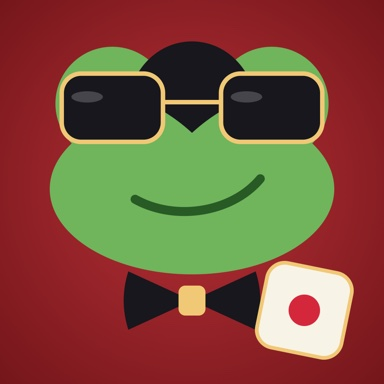
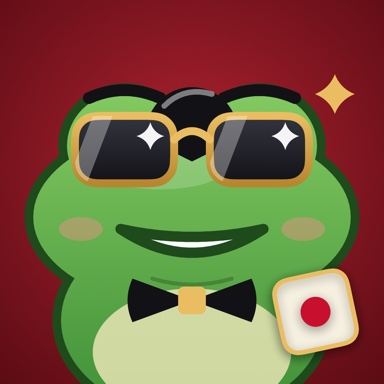
膨風盅 1.3.0 已上架：新圖示、新截圖、膨風水雞重畫，版本紀錄改為目前版本
- 版本紀錄 1.3.0 標為目前版本（2026-11-26），首頁標示 1.3 版
- App 圖示、favicon 與六張畫面換成 1.3 新造型
- 吉祥物 SVG 依 App 的新膨風水雞重畫（油頭、金框墨鏡、領結、下巴聲囊；被抓包會垮臉、墨鏡歪掉）
- 同桌卡片、吉祥物介紹與聲控問答加入表情、膨風水雞王與聲控訓練

diff --git a/bluffrog/index.html b/bluffrog/index.html
@@ -220,6 +220,12 @@ h1 em,.h2 em{font-style:normal;background:linear-gradient(100deg,#FFE3A6 0%,var(
 .frog__stage.busted #sac{transition:transform .9s cubic-bezier(.3,1.8,.4,1);transform:scale(.18)}
 .frog__stage.busted #frogBody{transform:scale(.97) translateY(4px)}
 .frog__stage.busted .sweat{opacity:1;transform:translateY(0)}
+#shades{transform-box:fill-box;transform-origin:50% 50%;transition:transform .6s var(--ease-spring)}
+.frog__stage .m-down,.frog__stage .brows{opacity:0;transition:opacity .3s}
+.frog__stage .m-up{transition:opacity .3s}
+.frog__stage.busted .m-up{opacity:0}
+.frog__stage.busted .m-down,.frog__stage.busted .brows{opacity:1}
+.frog__stage.busted #shades{transform:translateY(13px) rotate(-9deg)}
 .sweat{opacity:0;transform:translateY(-6px);transition:opacity .3s,transform .4s}
 .bid{margin-top:36px;padding:24px;border-radius:var(--r-m);background:var(--card);border:1px solid var(--line)}
 .bid__row{display:flex;align-items:baseline;justify-content:space-between;gap:16px}
@@ -469,7 +475,7 @@ footer a{text-decoration:none}footer a:hover{color:var(--cream)}
           <span class="tag">搖相呼應</span>
           <h3>全桌一起開盅</h3>
           <p>2 到 8 支手機圍成一桌，任何人開盅，全桌同時開。</p>
-          <ul><li>輸入桌號或掃 QR code 就加入，不用帳號</li><li>沒有 Wi-Fi 也能在 1 秒左右連上</li><li>按住麥克風喊「四個四」叫骰、喊「開」開盅</li><li>骰數、誰先喊、開新局，桌上誰都能按</li><li>自動統計全桌點數、判定輸贏</li></ul>
+          <ul><li>輸入桌號或掃 QR code 就加入，不用帳號</li><li>沒有 Wi-Fi 也能在 1 秒左右連上</li><li>按住麥克風喊「四個四」叫骰、喊「開」開盅</li><li>點桌號旁的笑臉，丟表情給全桌</li><li>自動判輸贏，再公布「膨風水雞王」</li></ul>
           <div class="shot-wrap"><img class="shot" src="img/06-result.jpg" alt="搖相呼應：開盅後顯示「你贏了」，以及全桌各點數的統計" width="552" height="1200" loading="lazy"></div>
         </article>
       </div>
@@ -480,35 +486,57 @@ footer a{text-decoration:none}footer a:hover{color:var(--cream)}
   <section class="sec" id="frog" aria-labelledby="frog-h" style="padding-top:0">
     <div class="wrap frog">
       <div class="frog__stage rv" id="frogStage">
-        <svg viewBox="0 0 300 300" role="img" aria-label="吉祥物膨風水雞：戴著墨鏡、打著領結的青蛙，喉嚨會隨叫骰鼓起來">
-          <ellipse cx="150" cy="282" rx="96" ry="12" fill="rgba(0,0,0,.45)"/>
+        <svg viewBox="0 0 300 300" role="img" aria-label="吉祥物膨風水雞：梳油頭、戴金框墨鏡、打著領結的青蛙，下巴的聲囊會隨叫骰鼓起來">
+          <defs>
+            <linearGradient id="fSkin" x1="0" y1="30" x2="0" y2="285" gradientUnits="userSpaceOnUse"><stop offset="0" stop-color="#86CC63"/><stop offset="1" stop-color="#3F8F37"/></linearGradient>
+            <radialGradient id="fSac" cx="141" cy="175" r="78" gradientUnits="userSpaceOnUse"><stop offset="0" stop-color="#FFF4D2"/><stop offset="1" stop-color="#E2B65A"/></radialGradient>
+            <linearGradient id="fLens" x1="0" y1="0" x2="0" y2="1"><stop offset="0" stop-color="#34343E"/><stop offset="1" stop-color="#121216"/></linearGradient>
+            <linearGradient id="fRim" x1="0" y1="0" x2="0" y2="1"><stop offset="0" stop-color="#EBBD62"/><stop offset="1" stop-color="#B8862E"/></linearGradient>
+            <clipPath id="fShape"><ellipse cx="150" cy="135" rx="120" ry="69"/><ellipse cx="99" cy="81" rx="43.5" ry="40.5"/><ellipse cx="201" cy="81" rx="43.5" ry="40.5"/><ellipse cx="150" cy="213" rx="99" ry="72"/></clipPath>
+            <clipPath id="fJaw"><path d="M0 157.5 Q150 172.5 300 157.5 L300 300 L0 300Z"/></clipPath>
+            <clipPath id="fLensL"><rect x="61.5" y="58.5" width="75" height="51" rx="16.5"/></clipPath>
+            <clipPath id="fLensR"><rect x="163.5" y="58.5" width="75" height="51" rx="16.5"/></clipPath>
+          </defs>
+          <ellipse cx="150" cy="289" rx="92" ry="10" fill="rgba(0,0,0,.45)"/>
           <g id="frogBody">
-            <circle cx="100" cy="92" r="38" fill="var(--frog)"/>
-            <circle cx="200" cy="92" r="38" fill="var(--frog)"/>
-            <path d="M150 74 C112 74 98 84 98 84 L202 84 C202 84 188 74 150 74Z" fill="#141416"/>
-            <ellipse cx="150" cy="170" rx="122" ry="88" fill="var(--frog)"/>
-            <ellipse cx="150" cy="190" rx="100" ry="58" fill="#86CF6C" opacity=".45"/>
-            <!-- sunglasses -->
-            <rect x="62" y="96" width="76" height="52" rx="16" fill="#18181B" stroke="var(--gold)" stroke-width="6"/>
-            <rect x="162" y="96" width="76" height="52" rx="16" fill="#18181B" stroke="var(--gold)" stroke-width="6"/>
-            <path d="M138 112 H162" stroke="var(--gold)" stroke-width="6"/>
-            <rect x="74" y="106" width="26" height="9" rx="4.5" fill="rgba(255,255,255,.28)"/>
-            <rect x="174" y="106" width="26" height="9" rx="4.5" fill="rgba(255,255,255,.28)"/>
-            <path d="M104 186 Q150 214 196 182" stroke="var(--frog-2)" stroke-width="8" stroke-linecap="round" fill="none"/>
-            <g class="sweat"><path d="M252 112 C246 124 246 132 252 136 C258 132 258 124 252 112Z" fill="#9BD3FF"/></g>
-          </g>
-          <!-- vocal sac: the "puff" -->
-          <ellipse id="sac" cx="150" cy="226" rx="66" ry="44" fill="#E9F3C8" stroke="#C9DF9C" stroke-width="3"/>
-          <g>
-            <path d="M118 248 L144 260 L118 272Z M182 248 L156 260 L182 272Z" fill="#141416"/>
-            <rect x="142" y="252" width="16" height="16" rx="4" fill="var(--gold)"/>
+            <!-- outline, then fill on top so only the outer edge shows -->
+            <g fill="#1F4A1C" stroke="#1F4A1C" stroke-width="13.2"><ellipse cx="150" cy="135" rx="120" ry="69"/><ellipse cx="99" cy="81" rx="43.5" ry="40.5"/><ellipse cx="201" cy="81" rx="43.5" ry="40.5"/><ellipse cx="150" cy="213" rx="99" ry="72"/></g>
+            <rect width="300" height="300" fill="url(#fSkin)" clip-path="url(#fShape)"/>
+            <ellipse cx="126" cy="99" rx="48" ry="15" fill="rgba(255,255,255,.18)"/>
+            <ellipse cx="150" cy="237" rx="75" ry="48" fill="#E8E4B4" opacity=".85" clip-path="url(#fShape)"/>
+            <!-- slicked hair -->
+            <path d="M114 75 C117 24 183 24 186 75 Q174 81 150 93 Q126 81 114 75Z" fill="#121216"/>
+            <path d="M129 51 Q144 36 165 42" fill="none" stroke="rgba(255,255,255,.45)" stroke-width="4.2" stroke-linecap="round"/>
+            <!-- bow tie -->
+            <path d="M150 198 L195 181.5 Q202.5 198 195 214.5Z M150 198 L105 181.5 Q97.5 198 105 214.5Z" fill="#121216"/>
+            <rect x="139.5" y="187.5" width="21" height="21" rx="4.5" fill="#EBBD62"/>
+            <!-- vocal sac: grows from under the chin -->
+            <g clip-path="url(#fJaw)"><g id="sac">
+              <ellipse cx="150" cy="193" rx="60" ry="42" fill="url(#fSac)" stroke="#A97A22" stroke-width="6.6"/>
+              <path d="M112 182 A33 33 0 0 1 130 163" fill="none" stroke="rgba(255,255,255,.85)" stroke-width="4.8" stroke-linecap="round"/>
+            </g></g>
+            <!-- mouth: smirk, deflated when busted -->
+            <g fill="none" stroke="#1F4A1C" stroke-width="7.8" stroke-linecap="round" stroke-linejoin="round">
+              <path class="m-up" d="M99 150 C126 168 180 163.5 210 142.5 L214.5 148.5"/>
+              <path class="m-down" d="M108 162 C132 147 168 147 192 160.5"/>
+            </g>
+            <!-- gold-rimmed shades -->
+            <g id="shades">
+              <rect x="61.5" y="58.5" width="75" height="51" rx="16.5" fill="url(#fLens)" stroke="url(#fRim)" stroke-width="6"/>
+              <rect x="163.5" y="58.5" width="75" height="51" rx="16.5" fill="url(#fLens)" stroke="url(#fRim)" stroke-width="6"/>
+              <path d="M75 58.5 H90 L70.5 109.5 H55.5Z" fill="rgba(255,255,255,.14)" clip-path="url(#fLensL)"/>
+              <path d="M177 58.5 H192 L172.5 109.5 H157.5Z" fill="rgba(255,255,255,.14)" clip-path="url(#fLensR)"/>
+              <path d="M136.5 76.35 Q150 63.6 163.5 76.35" fill="none" stroke="#EBBD62" stroke-width="6" stroke-linecap="round"/>
+            </g>
+            <path class="brows" d="M69 60 L126 45 M231 60 L174 45" fill="none" stroke="#121216" stroke-width="9" stroke-linecap="round"/>
+            <g class="sweat"><path d="M258 81 Q267 93 268.5 103.5 A10.5 10.5 0 0 1 247.5 103.5 Q249 93 258 81Z" fill="#7CCBFF" stroke="#2E7BB5" stroke-width="2.4"/></g>
           </g>
         </svg>
       </div>
       <div>
         <p class="eyebrow rv">吉祥物</p>
         <h2 class="h2 rv" id="frog-h" style="--i:1">叫得越大，<br>水雞<em>鼓得越大</em>。</h2>
-        <p class="lede rv" style="--i:2">膨風水雞是陪你吹牛的青蛙，大話骰和同桌都在。叫骰越喊越多，牠的喉嚨就越鼓；被人一把抓包，當場洩氣。</p>
+        <p class="lede rv" style="--i:2">膨風水雞是陪你吹牛的青蛙，大話骰和同桌都在。叫骰越喊越多，牠的下巴就越鼓；被人一把抓包，當場洩氣。同桌還能丟牠的表情給大家，每局結算公布手上沒幾顆卻喊最大的「膨風水雞王」。</p>
         <div class="bid rv" style="--i:3">
           <div class="bid__row"><label for="qty">拖動來叫骰</label><p class="bid__say" aria-live="polite"><span class="num" id="qtyOut">3</span> 個 6</p></div>
           <input type="range" id="qty" min="1" max="10" value="3" aria-describedby="bidStatus">
@@ -556,7 +584,7 @@ footer a{text-decoration:none}footer a:hover{color:var(--cream)}
       <figure><img src="img/03-revealed.jpg" alt="開盅後綠色氈面上的骰子，下方列出每個點數的數量與合計" width="552" height="1200" loading="lazy"><figcaption><b>開</b>點數自動算好</figcaption></figure>
       <figure><img src="img/04-liar.jpg" alt="大話骰對局畫面" width="552" height="1200" loading="lazy"><figcaption><b>大話骰</b>跟 AI 對吹</figcaption></figure>
       <figure><img src="img/05-table.jpg" alt="搖相呼應的同桌畫面：桌號、在場玩家，輪到你叫骰" width="552" height="1200" loading="lazy"><figcaption><b>搖相呼應</b>輸入桌號或掃碼加入</figcaption></figure>
-      <figure><img src="img/06-result.jpg" alt="同桌開盅結果：膨風水雞旁顯示你贏了，下方列出全桌點數" width="552" height="1200" loading="lazy"><figcaption><b>輸贏</b>一開盅就知道</figcaption></figure>
+      <figure><img src="img/06-result.jpg" alt="同桌開盅結果：膨風水雞旁顯示你贏了，下方公布本局膨風水雞王與全桌點數" width="552" height="1200" loading="lazy"><figcaption><b>輸贏</b>一開盅就知道</figcaption></figure>
     </div>
     <div class="reel-ctl"><button type="button" data-dir="-1" aria-label="上一張"><svg><use href="#left"/></svg></button><button type="button" data-dir="1" aria-label="下一張"><svg><use href="#right"/></svg></button></div>
   </section>
@@ -597,8 +625,8 @@ footer a{text-decoration:none}footer a:hover{color:var(--cream)}
       <p class="eyebrow rv">版本紀錄</p>
       <h2 class="h2 rv" id="ver-h" style="--i:1">每一版，<em>改了什麼</em>。</h2>
       <ol class="log" reversed>
-        <li class="rv">
-          <div><p class="ver">1.3.0</p><span class="soon">即將推出</span></div>
+        <li class="latest rv">
+          <div><p class="ver">1.3.0</p><time datetime="2026-11-26">2026 年 11 月 26 日</time><span class="now">目前版本</span></div>
           <div>
             <h3>膨風水雞大改版</h3>
             <ul>
@@ -608,11 +636,11 @@ footer a{text-decoration:none}footer a:hover{color:var(--cream)}
               <li>新增「聲控訓練」（設定 → 聲控）：念幾句，聲控就聽得懂你的口音</li>
               <li>按住麥克風一碰就開始聽，開頭也比較不會被吃掉</li>
             </ul>
-            <p class="note">表情與膨風水雞王需要大家都更新到 1.3.0。Apple 審核通過後，就能在 App Store 更新。</p>
+            <p class="note">表情與膨風水雞王需要大家都更新到 1.3.0。</p>
           </div>
         </li>
-        <li class="latest rv" style="--i:1">
-          <div><p class="ver">1.2.0</p><time datetime="2026-11-25">2026 年 11 月 25 日</time><span class="now">目前版本</span></div>
+        <li class="rv" style="--i:1">
+          <div><p class="ver">1.2.0</p><time datetime="2026-11-25">2026 年 11 月 25 日</time></div>
           <div>
             <h3>「搖相呼應」大更新</h3>
             <ul>
@@ -678,7 +706,7 @@ footer a{text-decoration:none}footer a:hover{color:var(--cream)}
         <a class="btn btn--gold" href="https://apps.apple.com/tw/app/%E8%86%A8%E9%A2%A8%E7%9B%85/id6835320625">在 App Store 免費下載<svg aria-hidden="true"><use href="#arr"/></svg></a>
         <a class="btn btn--ghost" href="#support">支援與隱私權</a>
       </div>
-      <small class="rv" style="--i:3">已在 App Store 上架・1.2 版・免費・4 歲以上・iOS 17 以上的 iPhone 與 iPad</small>
+      <small class="rv" style="--i:3">已在 App Store 上架・1.3 版・免費・4 歲以上・iOS 17 以上的 iPhone 與 iPad</small>
     </div>
   </section>
 
@@ -691,7 +719,7 @@ footer a{text-decoration:none}footer a:hover{color:var(--cream)}
         <details><summary>搖手機沒有反應？</summary><p>到 App 的「設定」把搖晃靈敏度調高，或直接按畫面下方的「搖」。大話骰叫骰階段不能重搖，這是規則。</p></details>
         <details><summary>同桌模式找不到桌子？</summary><p>先確認大家都更新到 1.2.0（不同版本的同桌模式不相通），並允許膨風盅使用「區域網路」。手機靠近一點、打開 Wi-Fi 即可，不一定要連上同一個網路；連上同一個 Wi-Fi 最快。開桌的人把四位數桌號告訴大家，或顯示 QR code 讓朋友掃。連不上時畫面會直接寫出原因。</p></details>
         <details><summary>怎麼掃 QR code 加入？</summary><p>在膨風盅的加入畫面按「掃 QR code 加入」，對準開桌那支手機上的 QR code 就會加入（第一次會詢問相機權限）。也可以用 iPhone 內建的「相機」掃，點跳出的連結就會打開膨風盅；掃的人要先裝好膨風盅。</p></details>
-        <details><summary>聲控叫骰怎麼用？</summary><p>在同桌畫面按住麥克風說話，放開就送出：說「四個四」叫骰，說「開」「抓」「不信」「騙人」開盅。說的不合規則時會告訴你原因。用喊的開盅可以在房間設定關掉；需要支援裝置端語音辨識的 iPhone，不支援時不會出現麥克風。</p></details>
+        <details><summary>聲控叫骰怎麼用？</summary><p>在同桌畫面按住麥克風說話，放開就送出：說「四個四」叫骰，說「開」「抓」「不信」「騙人」開盅。說的不合規則時會告訴你原因；常聽錯的話，到「設定 → 聲控」做聲控訓練，念幾句就會記住你的口音。用喊的開盅可以在房間設定關掉；需要支援裝置端語音辨識的 iPhone，不支援時不會出現麥克風。</p></details>
         <details><summary>可以只用按鈕玩嗎？</summary><p>可以。搖、瞇、開都有對應按鈕，也支援 VoiceOver。</p></details>
         <details><summary>玩的時候螢幕會自己變暗嗎？</summary><p>從 1.1 版開始，膨風盅開在前景時螢幕不會變暗或自動鎖定；切到別的 App 就恢復系統設定。</p></details>
       </article>

diff --git a/index.html b/index.html
@@ -478,7 +478,7 @@ footer a:hover{color:var(--ink)}
       </a>
       <a class="tile t-bf rv" href="#bluffrog" data-spot>
         <div class="txt">
-          <div class="head"><img class="app-icon" src="img/bluffrog-icon-128.jpg" alt="" width="56" height="56" loading="lazy"><div><h3><span lang="zh-Hant">膨風盅</span><span lang="en">Bluffrog</span></h3><span class="tag"><span lang="zh-Hant">已上架・1.2 版・1.3 即將推出</span><span lang="en">On the App Store · 1.2 · 1.3 coming soon</span></span></div></div>
+          <div class="head"><img class="app-icon" src="img/bluffrog-icon-128.jpg" alt="" width="56" height="56" loading="lazy"><div><h3><span lang="zh-Hant">膨風盅</span><span lang="en">Bluffrog</span></h3><span class="tag"><span lang="zh-Hant">已上架・1.3 版</span><span lang="en">On the App Store · 1.3</span></span></div></div>
           <p><span lang="zh-Hant">搖手機擲骰、掀盅邊偷瞇、上滑開盅。大話骰 AI 對手，朋友在場還能全桌同步開盅。</span><span lang="en">Shake to roll, lift the rim to peek, swipe up to reveal. Liar’s Dice AI, and a nearby mode that opens every cup at once.</span></p>
         </div>
         <div class="pips" aria-hidden="true"><i></i><i></i><i></i></div>
